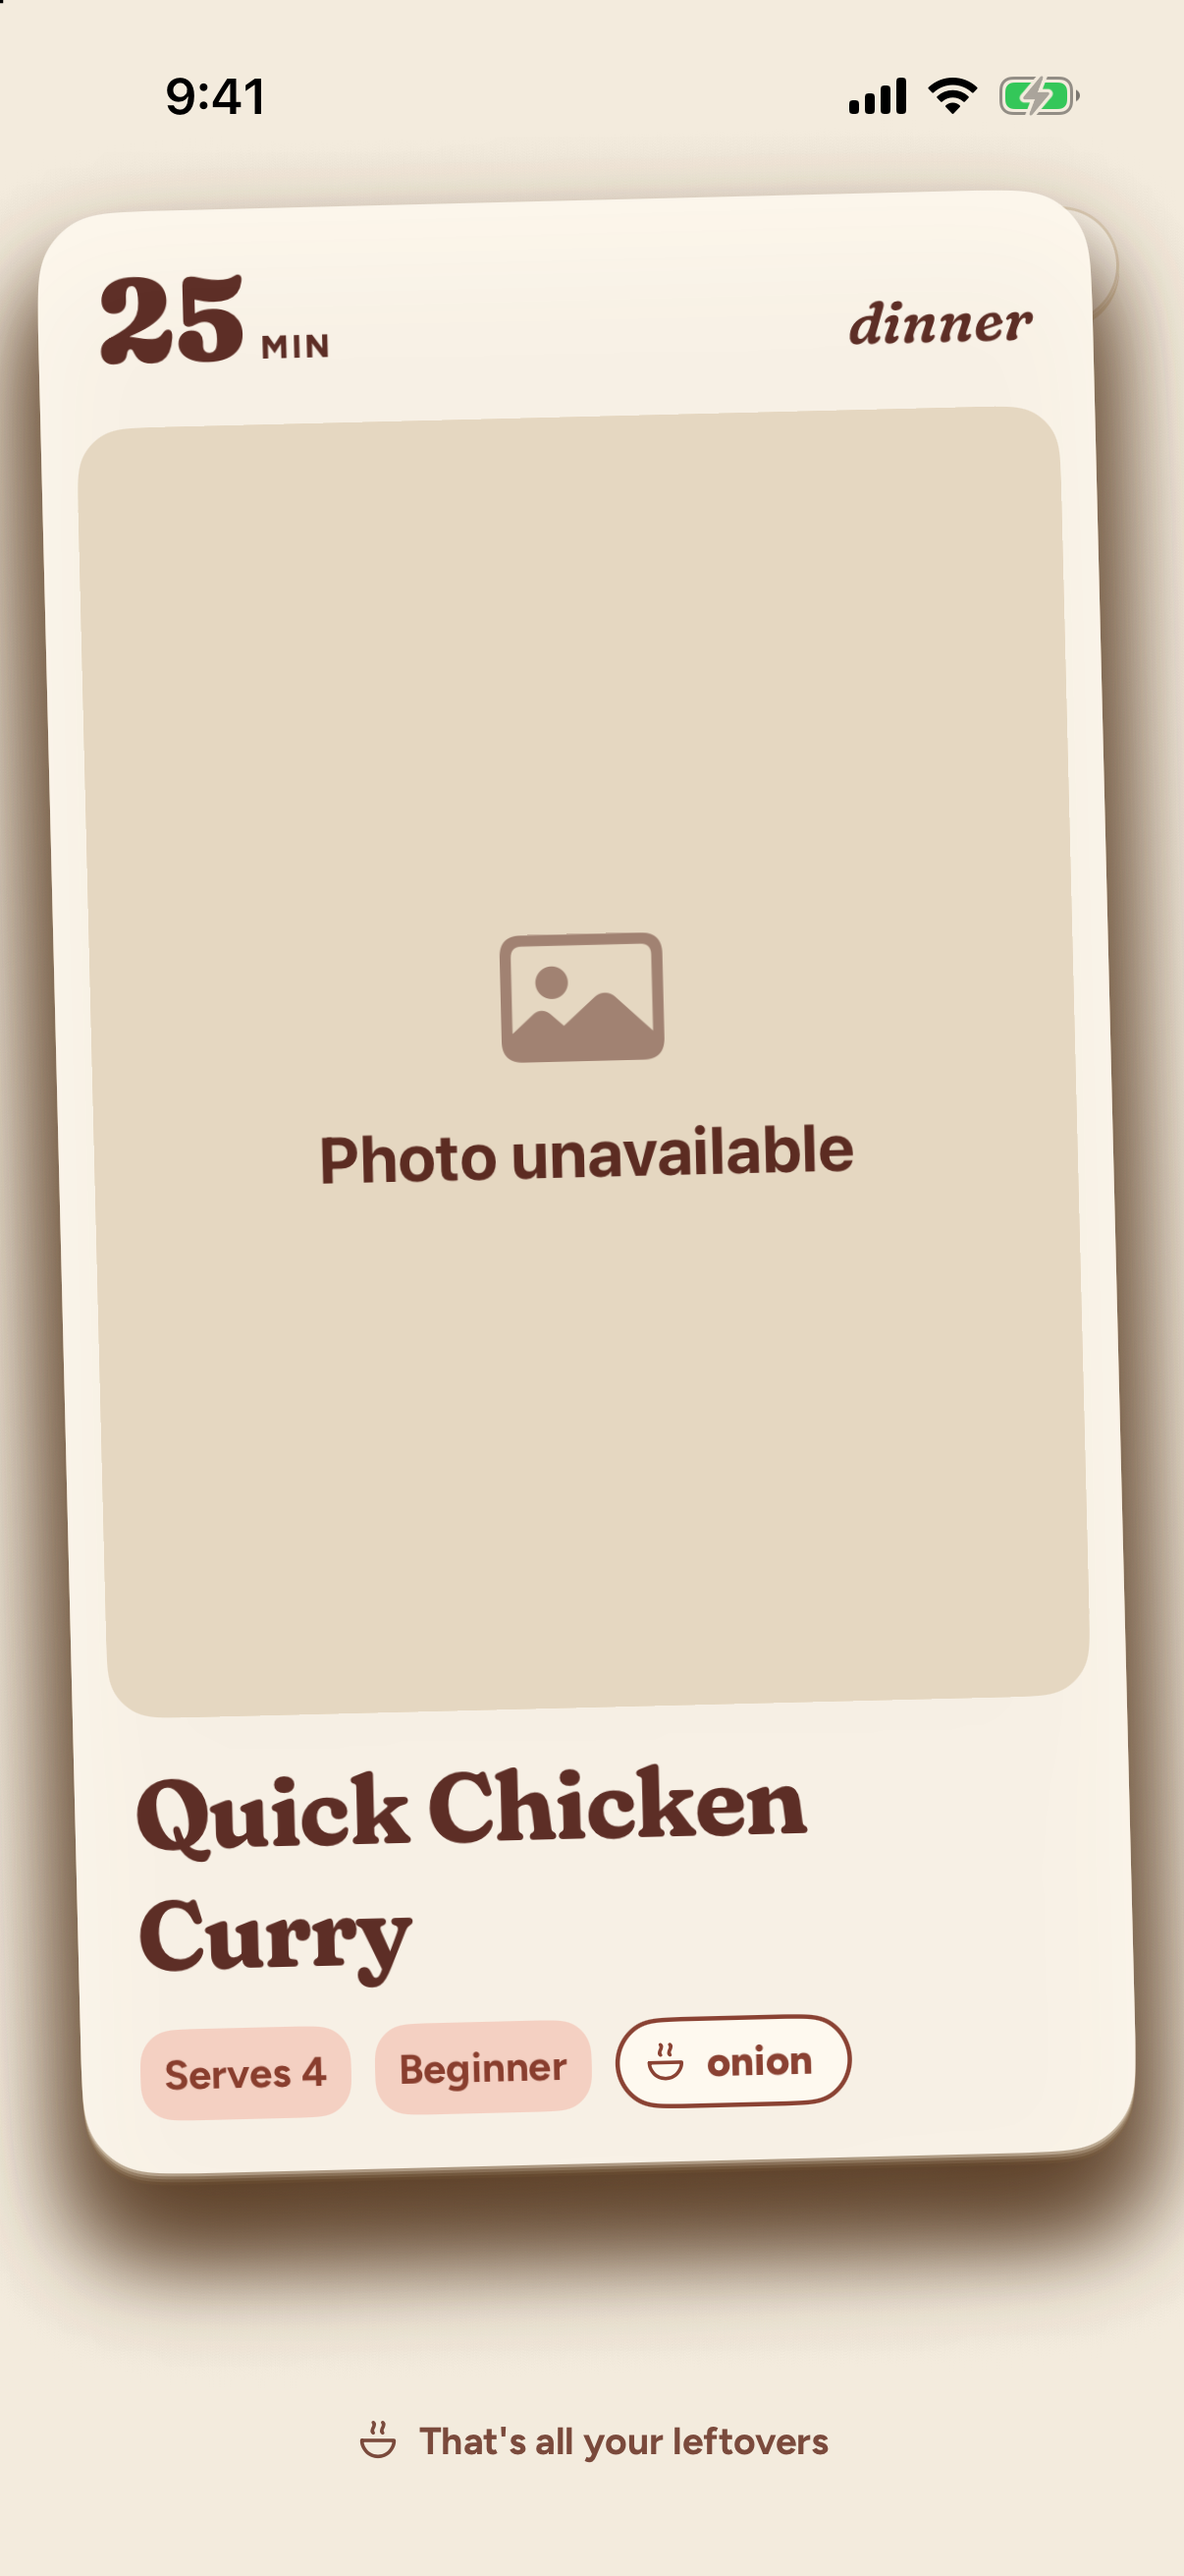
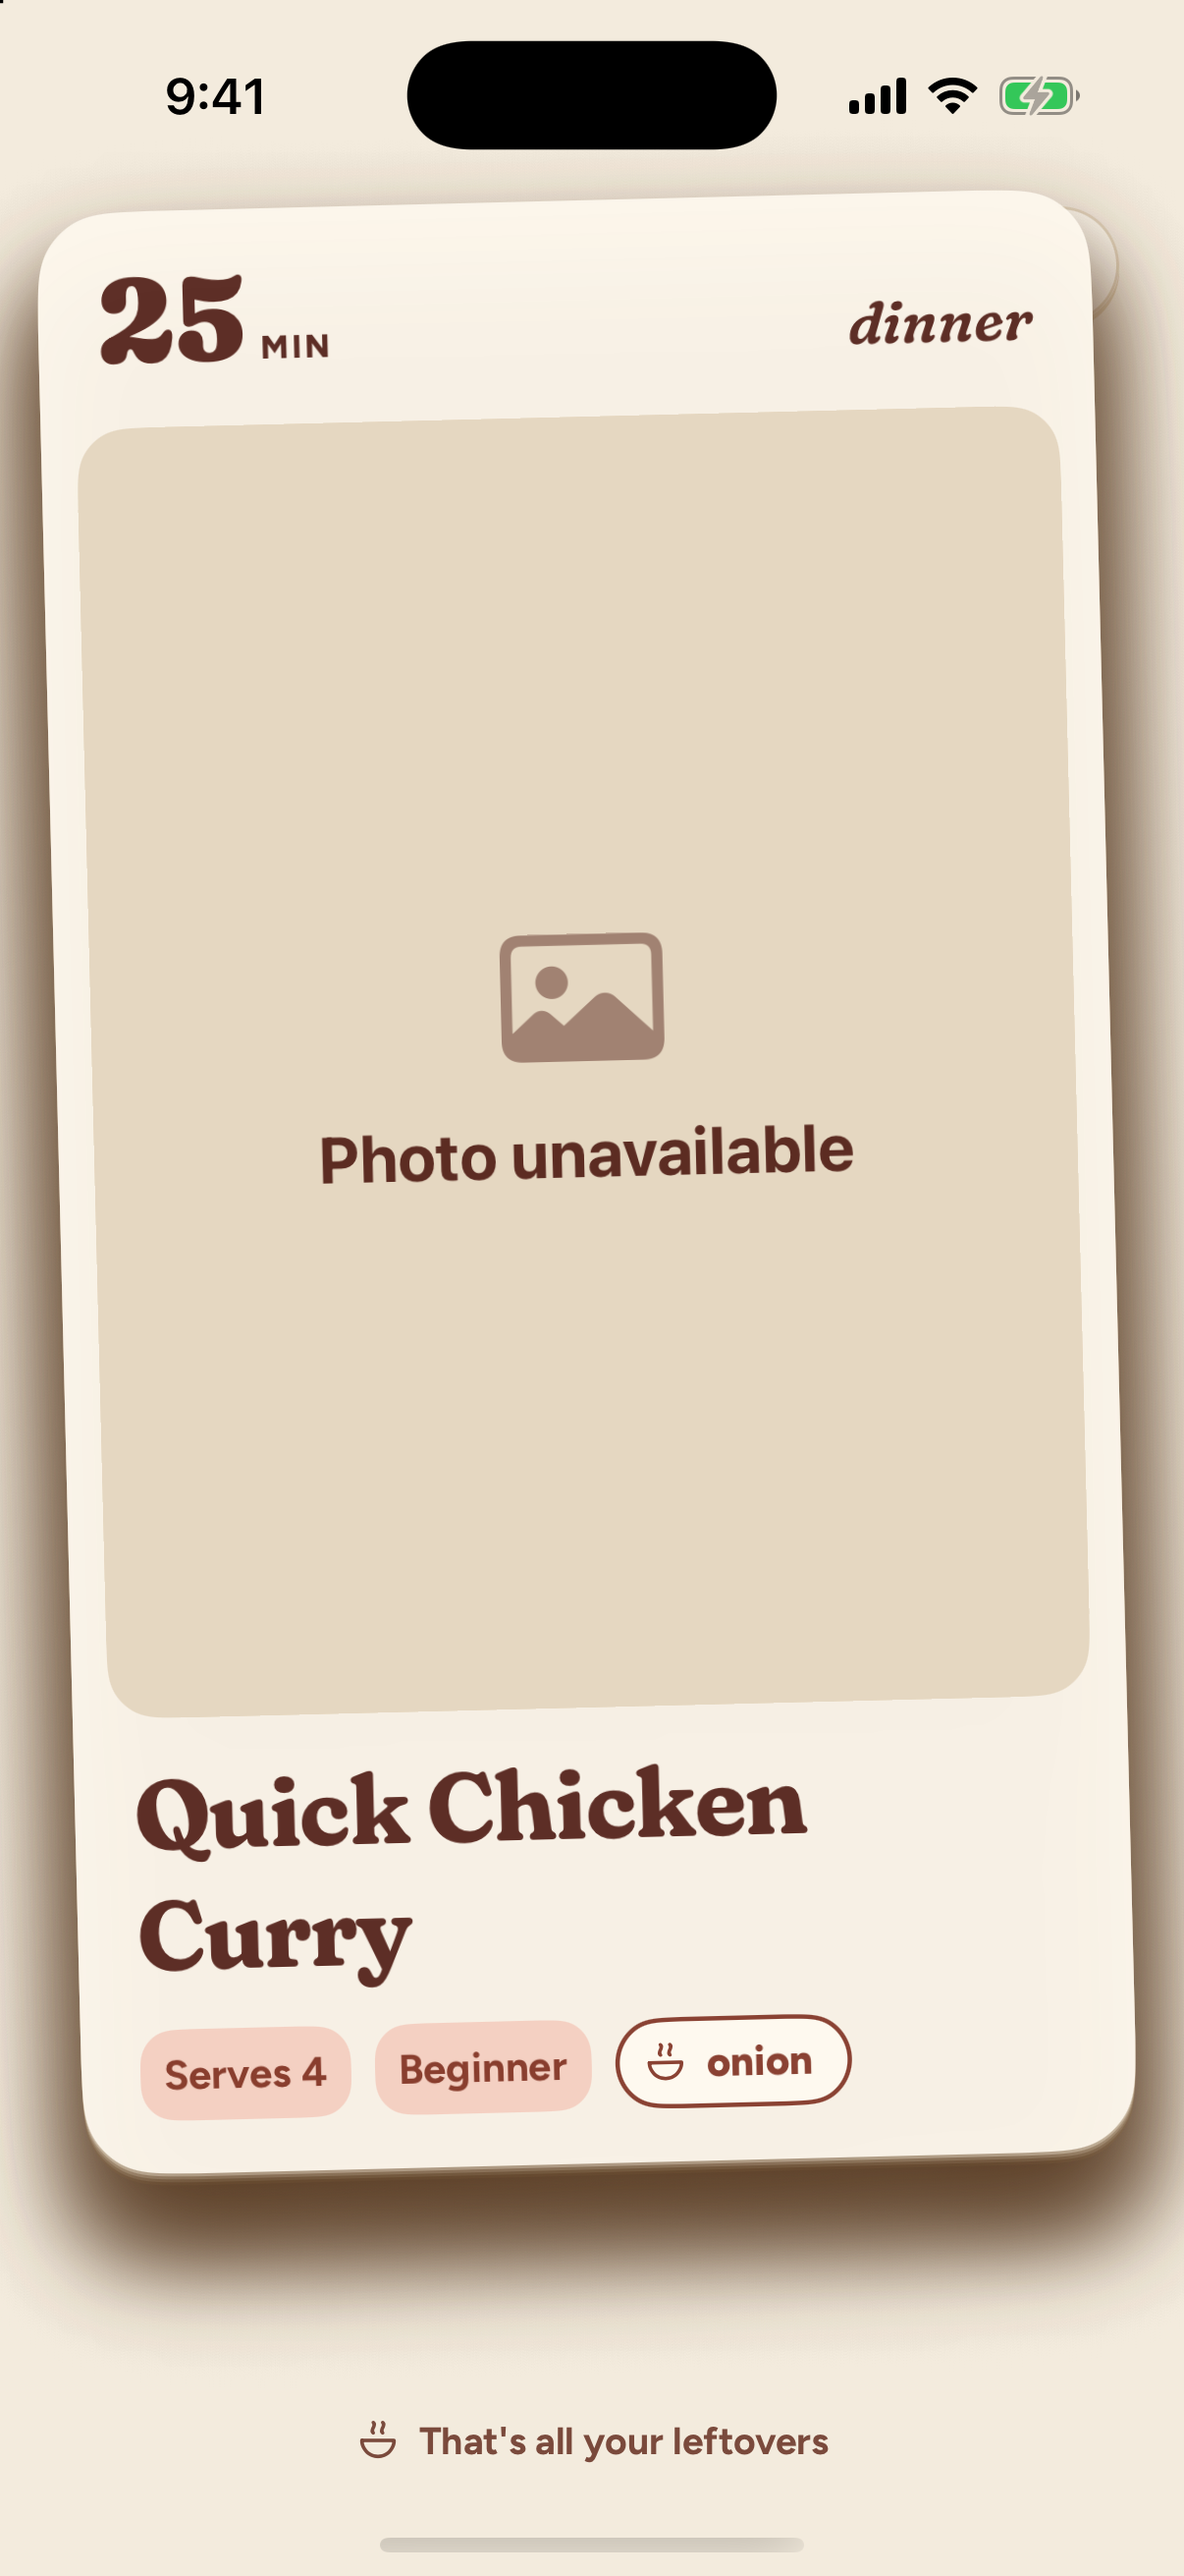
Regenerate the Leftovers shots on the final code

Changed region(s): [[0.3375, 0.0, 0.675, 0.0618], [0.3375, 0.9577, 0.6443, 1.0]]

diff --git a/Karta/Documentation/Issue181/README.md b/Karta/Documentation/Issue181/README.md
@@ -3,7 +3,7 @@
 Simulator: iPhone 17 (`EDD9B083-63F1-44E6-9A7B-0A6964CC2561`, iOS simulator
 runtime from Xcode 27.0 RC; `/Applications/Xcode-27.0-RC.app`).
 Xcode: 27.0 (27A266a).
-Tested commit: `fa48637b94edcc930514f3cfaee0f46f5ffb920c` (the shots were
+Tested commit: `e05f92d85a9c3417e4db8b7ea4ada06552a0e079` (the shots were
 taken against that build; this README was added afterwards, with no code
 change).
 
